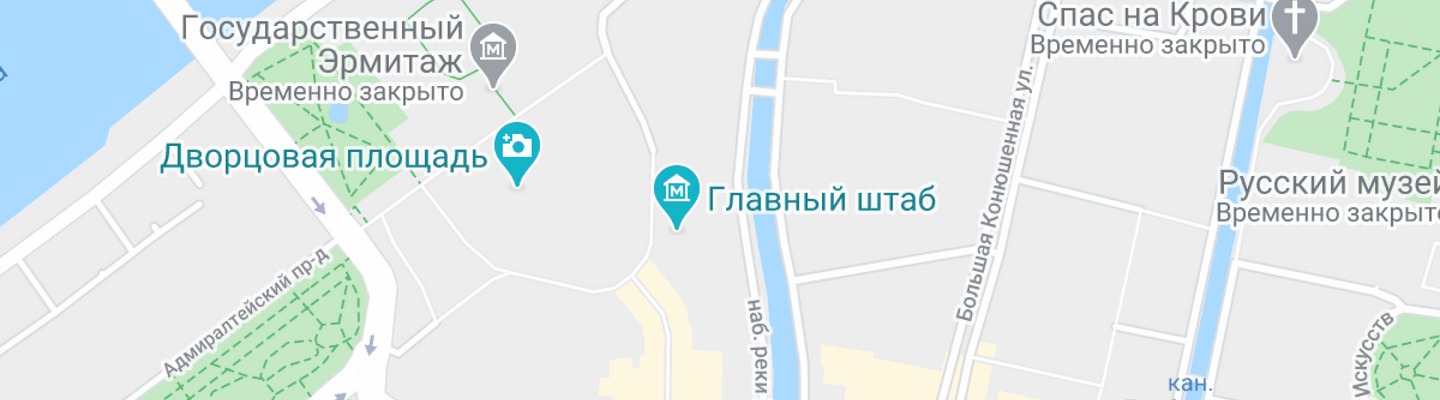
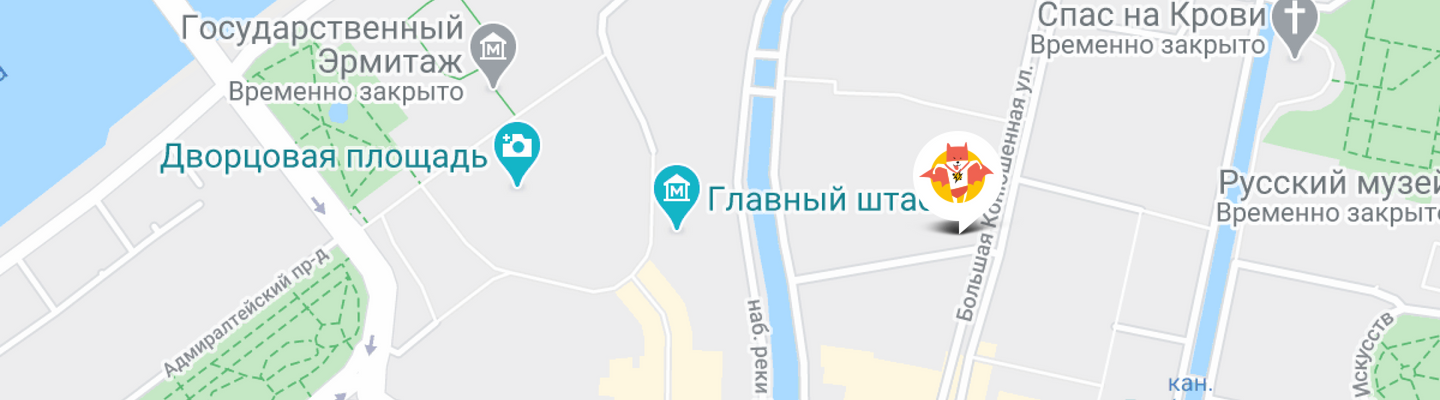
Deploying to gh-pages from @ tavimo/2371083-cat-energy-31@746d1fd5fab75439a8b4c9e2a0bec1154dd610bd 🚀

Changed region(s): [[0.625, 0.36, 0.7188, 0.51], [0.625, 0.54, 0.6875, 0.6]]

diff --git a/5/index.html b/5/index.html
@@ -1,1 +1,1 @@
-<!DOCTYPE html><html class="page" lang="ru"><head><meta charset="UTF-8"><title>Функциональное питание для котов Cat Energy</title><meta name="viewport" content="width=device-width,initial-scale=1"><link rel="stylesheet" href="styles/styles.css"><link rel="icon" href="favicon.ico"><link rel="icon" href="favicons/16.png" type="image/png"><link rel="icon" href="favicons/32.png" type="image/png"><link rel="icon" href="favicons/152.png" type="image/png"><link rel="manifest" href="manifest.webmanifest"><script src="scripts/index.js" defer="defer"></script></head><body class="page__body"><header class="main-header"><div class="main-header__container container"><a class="main-header__logo" href="#" aria-current="page"><picture><source media="(min-width: 1300px)" width="70" height="59" type="image/svg+xml" srcset="images/logo-desktop.svg"><source media="(min-width: 768px)" width="60" height="50" type="image/svg+xml" srcset="images/logo-tablet.svg"><img src="images/logo-mobile.svg" width="33" height="38" alt="логотип Cat Energy"></picture></a><a class="main-header__logo" href="#" aria-current="page"><img src="images/logo-text.svg" width="101" height="18" alt="текстовый логотип Cat Energy"></a><nav class="main-header__navigation navigation"><button class="navigation__toggle" type="button"><span class="visually-hidden">Открыть меню навигации</span></button><div class="navigation__container"><ul class="navigation__list"><li class="navigation__item"><a class="navigation__link" href="#">Главная</a></li><li class="navigation__item"><a class="navigation__link" href="catalog.html">Каталог продукции</a></li><li class="navigation__item"><a class="navigation__link" href="#">Подбор программы</a></li></ul></div></nav></div></header><main class="main-container"><section class="hero"><div class="container"><h1 class="hero__title">Функциональное питание для котов</h1><p class="hero__text">Занялся собой? Займись котом!</p><a class="button" href="#">Подобрать программу</a><picture><source media="(min-width: 1300px)" width="552" height="499" type="image/png" srcset="images/hero-box-desktop@1x.png, images/hero-box-desktop@2x.png 2x"><source media="(min-width: 768px)" width="709" height="609" type="image/png" srcset="images/hero-box-tablet@1x.png, images/hero-box-tablet@2x.png 2x"><img src="images/hero-box-mobile@1x.png" srcset="images/hero-box-mobile@2x.png 2x" width="280" height="270" alt="Банка Cat Energy со вкусом курицы"></picture></div></section><section class="programs"><h2 class="visually-hidden">Программы питания</h2><div class="container"><ul class="programs__list"><li class="programs__item"><article class="programs-card programs-card--slim"><h3 class="programs-card__title">Похудение</h3><p class="programs-card__description">Ваш кот весит больше собаки и почти утратил способность лазить по деревьям? Пора на диету! Cat Energy Slim поможет вашему питомцу сбросить лишний вес.</p><a class="programs-card__link" href="#">Каталог Slim</a></article></li><li class="programs__item"><article class="programs-card programs-card--pro"><h3 class="programs-card__title">Набор массы</h3><p class="programs-card__description">Заработать авторитет среди дворовых котов и даже собак? Серия Cat Energy Pro поможет вашему коту нарастить необходимые мышцы!</p><a class="programs-card__link" href="#">Каталог Pro</a></article></li></ul></div></section><section class="advantages"><div class="container"><h2 class="advantages__title">Как это работает</h2><ul class="advantages__list"><li class="advantages__item advantages__item--leaf"><p class="advantages__description">Функциональное питание содержит только полезные питательные вещества.</p></li><li class="advantages__item advantages__item--water"><p class="advantages__description">Выпускается в виде порошка, который нужно лишь залить кипятком и готово.</p></li><li class="advantages__item advantages__item--food"><p class="advantages__description">Замените один-два приема обычной еды на наше функциональное питание.</p></li><li class="advantages__item advantages__item--watch"><p class="advantages__description">Уже через месяц наслаждайтесь изменениями к лучшему вашего питомца!</p></li></ul></div></section><section class="example"><div class="container"><h2 class="example__title">Живой пример</h2><p class="example__description">Борис сбросил 5 кг за 2 месяца, просто заменив свой обычный корм на Cat Energy Slim. Отличный результат без изнуряющих тренировок! При этом он не менял своих привычек и по-прежнему спит по 16 часов в день.</p><dl class="example__list"><div class="example__item"><dt class="example__term">Снижение веса</dt><dd class="example__definition">5 кг</dd></div><div class="example__item"><dt class="example__term">Затрачено времени</dt><dd class="example__definition">60 дней</dd></div></dl><p class="example__cost">Затраты на питание: <span>15 000 руб.</span></p><div class="example__comparison slider"><div class="slider__container"><div class="slider__img slider__img--after"><picture><source media="(min-width: 768px)" width="560" height="512" type="image/png" srcset="images/slider-after-tablet@1x.png, images/slider-after-tablet@2x.png 2x"><img src="images/slider-after-mobile@1x.png" srcset="images/slider-after-mobile@2x.png 2x" width="280" height="256" alt="стройный кот после употребления корма Cat Energy Slim"></picture></div><div class="slider__img-wrapper"><div class="slider__img slider__img--before"><picture><source media="(min-width: 768px)" width="560" height="512" type="image/png" srcset="images/slider-before-tablet@1x.png, images/slider-before-tablet@2x.png 2x"><img src="images/slider-before-mobile@1x.png" srcset="images/slider-before-mobile@2x.png 2x" width="280" height="256" alt="толстый кот до употребления корма Cat Energy Slim"></picture></div></div><div class="slider__change-wrapper"><button class="slider__change" type="button"><span class="visually-hidden">Ползунок слайдера</span></button></div></div></div></div></section><section class="map"><div class="container"><div class="map__description-container"><h2 class="visually-hidden">Местонахождение на карте</h2><p class="map__description">Приглашаем к сотрудничеству дилеров!</p><address class="map__address">ул. Большая Конюшенная, д. 19/8</address><span class="map__address">Санкт-Петербург</span></div><div class="map__location"></div></div></section></main><footer class="footer"><div class="container"><a class="footer__logo" href="#" aria-current="page"><img src="images/logo-text.svg" width="101" height="18" alt="текстовый логотип Cat Energy"></a><div class="footer__social-wrapper"><h2 class="visually-hidden">Социальные сети</h2><ul class="footer__social-list social-list"><li class="social-list__item"><a class="social-list__link" href="https://vk.com/htmlacademy" target="_blank" rel="noreferrer noopener"><span class="visually-hidden">Мы во Вконтакте.</span></a></li><li class="social-list__item"><a class="social-list__link" href="https://www.youtube.com/user/htmlacademyru" target="_blank" rel="noreferrer noopener"><span class="visually-hidden">Мы на Youtube.</span></a></li><li class="social-list__item"><a class="social-list__link" href="tg://resolve?domain=htmlacademy" target="_blank" rel="noreferrer noopener"><span class="visually-hidden">Мы в Telegram.</span></a></li></ul></div><a class="footer__copyright-link" href="https://htmlacademy.ru" target="_blank" rel="noreferrer noopener"><span class="footer__copyright-name">HTML Academy:</span> <img src="images/logo-html.svg" width="27" height="34" alt="логотип HTML Academy"></a></div></footer></body></html>
+<!DOCTYPE html><html class="page" lang="ru"><head><meta charset="UTF-8"><title>Функциональное питание для котов Cat Energy</title><meta name="viewport" content="width=device-width,initial-scale=1"><link rel="stylesheet" href="styles/styles.css"><link rel="icon" href="favicon.ico"><link rel="icon" href="favicons/16.png" type="image/png"><link rel="icon" href="favicons/32.png" type="image/png"><link rel="icon" href="favicons/152.png" type="image/png"><link rel="manifest" href="manifest.webmanifest"><script src="scripts/index.js" defer="defer"></script></head><body class="page__body"><header class="main-header"><div class="main-header__container container"><a class="main-header__logo" href="#" aria-current="page"><picture><source media="(min-width: 1300px)" width="70" height="59" type="image/svg+xml" srcset="images/logo-desktop.svg"><source media="(min-width: 768px)" width="60" height="50" type="image/svg+xml" srcset="images/logo-tablet.svg"><img src="images/logo-mobile.svg" width="33" height="38" alt="логотип Cat Energy"></picture></a><a class="main-header__logo" href="#" aria-current="page"><img src="images/logo-text.svg" width="101" height="18" alt="текстовый логотип Cat Energy"></a><nav class="main-header__navigation navigation"><button class="navigation__toggle" type="button"><span class="visually-hidden">Открыть меню навигации</span></button><div class="navigation__container"><ul class="navigation__list"><li class="navigation__item"><a class="navigation__link" href="#">Главная</a></li><li class="navigation__item"><a class="navigation__link" href="catalog.html">Каталог продукции</a></li><li class="navigation__item"><a class="navigation__link" href="#">Подбор программы</a></li></ul></div></nav></div></header><main class="main-container"><section class="hero"><div class="container"><h1 class="hero__title">Функциональное питание для котов</h1><p class="hero__text">Занялся собой? Займись котом!</p><a class="button" href="#">Подобрать программу</a><picture><source media="(min-width: 1300px)" width="552" height="499" type="image/png" srcset="images/hero-box-desktop@1x.png, images/hero-box-desktop@2x.png 2x"><source media="(min-width: 768px)" width="709" height="609" type="image/png" srcset="images/hero-box-tablet@1x.png, images/hero-box-tablet@2x.png 2x"><img src="images/hero-box-mobile@1x.png" srcset="images/hero-box-mobile@2x.png 2x" width="280" height="270" alt="Банка Cat Energy со вкусом курицы"></picture></div></section><section class="programs"><h2 class="visually-hidden">Программы питания</h2><div class="container"><ul class="programs__list"><li class="programs__item"><article class="programs-card programs-card--slim"><h3 class="programs-card__title">Похудение</h3><p class="programs-card__description">Ваш кот весит больше собаки и почти утратил способность лазить по деревьям? Пора на диету! Cat Energy Slim поможет вашему питомцу сбросить лишний вес.</p><a class="programs-card__link" href="#">Каталог Slim</a></article></li><li class="programs__item"><article class="programs-card programs-card--pro"><h3 class="programs-card__title">Набор массы</h3><p class="programs-card__description">Заработать авторитет среди дворовых котов и даже собак? Серия Cat Energy Pro поможет вашему коту нарастить необходимые мышцы!</p><a class="programs-card__link" href="#">Каталог Pro</a></article></li></ul></div></section><section class="advantages"><div class="container"><h2 class="advantages__title">Как это работает</h2><ul class="advantages__list"><li class="advantages__item advantages__item--leaf"><p class="advantages__description">Функциональное питание содержит только полезные питательные вещества.</p></li><li class="advantages__item advantages__item--water"><p class="advantages__description">Выпускается в виде порошка, который нужно лишь залить кипятком и готово.</p></li><li class="advantages__item advantages__item--food"><p class="advantages__description">Замените один-два приема обычной еды на наше функциональное питание.</p></li><li class="advantages__item advantages__item--watch"><p class="advantages__description">Уже через месяц наслаждайтесь изменениями к лучшему вашего питомца!</p></li></ul></div></section><section class="example"><div class="container"><h2 class="example__title">Живой пример</h2><p class="example__description">Борис сбросил 5 кг за 2 месяца, просто заменив свой обычный корм на Cat Energy Slim. Отличный результат без изнуряющих тренировок! При этом он не менял своих привычек и по-прежнему спит по 16 часов в день.</p><dl class="example__list"><div class="example__item"><dt class="example__term">Снижение веса</dt><dd class="example__definition">5 кг</dd></div><div class="example__item"><dt class="example__term">Затрачено времени</dt><dd class="example__definition">60 дней</dd></div></dl><p class="example__cost">Затраты на питание: <span>15 000 руб.</span></p><div class="example__comparison slider"><div class="slider__container"><div class="slider__img slider__img--after"><picture><source media="(min-width: 768px)" width="560" height="512" type="image/png" srcset="images/slider-after-tablet@1x.png, images/slider-after-tablet@2x.png 2x"><img src="images/slider-after-mobile@1x.png" srcset="images/slider-after-mobile@2x.png 2x" width="280" height="256" alt="стройный кот после употребления корма Cat Energy Slim"></picture></div><div class="slider__img-wrapper"><div class="slider__img slider__img--before"><picture><source media="(min-width: 768px)" width="560" height="512" type="image/png" srcset="images/slider-before-tablet@1x.png, images/slider-before-tablet@2x.png 2x"><img src="images/slider-before-mobile@1x.png" srcset="images/slider-before-mobile@2x.png 2x" width="280" height="256" alt="толстый кот до употребления корма Cat Energy Slim"></picture></div></div><div class="slider__change-wrapper"><button class="slider__change" type="button"><span class="visually-hidden">Ползунок слайдера</span></button></div></div></div></div></section><section class="map"><div class="container"><div class="map__description-container"><h2 class="visually-hidden">Контакты</h2><p class="map__description">Приглашаем к сотрудничеству дилеров!</p><address class="map__address">ул. Большая Конюшенная, д. 19/8</address><span class="map__address">Санкт-Петербург</span></div></div><div class="map__location"><picture><source media="(min-width: 1300px)" width="1440" height="400" type="image/png" srcset="images/map-desktop@1x.png, images/map-desktop@2x.png 2x"><source media="(min-width: 768px)" width="768" height="400" type="image/png" srcset="images/map-tablet@1x.png, images/map-tablet@2x.png 2x"><img class="map__location-img" src="images/map-mobile@1x.png" srcset="images/map-mobile@2x.png 2x" width="320" height="362" alt="Местонахождение на карте"></picture><iframe class="map__location-iframe" src="https://www.google.com/maps/embed?pb=!1m18!1m12!1m3!1d1998.6094560304048!2d30.323465821758433!3d59.93862242360575!2m3!1f0!2f0!3f0!3m2!1i1024!2i768!4f13.1!3m3!1m2!1s0x4696310fca145cc1%3A0x42b32648d8238007!2z0JHQvtC70YzRiNCw0Y8g0JrQvtC90Y7RiNC10L3QvdCw0Y8g0YPQuy4sIDE5LzgsINCh0LDQvdC60YIt0J_QtdGC0LXRgNCx0YPRgNCzLCAxOTExODY!5e0!3m2!1sru!2sru!4v1714467114008!5m2!1sru!2sru" width="600" height="450" style="border:0;" allowfullscreen="" loading="lazy" referrerpolicy="no-referrer-when-downgrade"></iframe></div></section></main><footer class="footer"><div class="container"><a class="footer__logo" href="#" aria-current="page"><img src="images/logo-text.svg" width="101" height="18" alt="текстовый логотип Cat Energy"></a><div class="footer__social-wrapper"><h2 class="visually-hidden">Социальные сети</h2><ul class="footer__social-list social-list"><li class="social-list__item"><a class="social-list__link" href="https://vk.com/htmlacademy" target="_blank" rel="noreferrer noopener"><span class="visually-hidden">Мы во Вконтакте.</span></a></li><li class="social-list__item"><a class="social-list__link" href="https://www.youtube.com/user/htmlacademyru" target="_blank" rel="noreferrer noopener"><span class="visually-hidden">Мы на Youtube.</span></a></li><li class="social-list__item"><a class="social-list__link" href="tg://resolve?domain=htmlacademy" target="_blank" rel="noreferrer noopener"><span class="visually-hidden">Мы в Telegram.</span></a></li></ul></div><a class="footer__copyright-link" href="https://htmlacademy.ru" target="_blank" rel="noreferrer noopener"><span class="footer__copyright-name">HTML Academy:</span> <img src="images/logo-html.svg" width="27" height="34" alt="логотип HTML Academy"></a></div></footer></body></html>

diff --git a/5/styles/styles.css b/5/styles/styles.css
@@ -1,1 +1,1 @@
-@font-face{font-family:Lato;font-weight:400;font-style:normal;src:url(../fonts/lato/Lato-Regular.woff2)format("woff2");font-display:swap}@font-face{font-family:Oswald;font-weight:400;font-style:normal;src:url(../fonts/oswald/oswaldregular.woff2)format("woff2");font-display:swap}*,:before,:after{box-sizing:border-box}html{height:100%}body{color:#444;margin:0;padding:0;font-family:Lato,sans-serif;font-size:14px;line-height:18px}.visually-hidden{clip:rect(0 0 0 0);border:0;width:1px;height:1px;margin:-1px;padding:0;position:absolute;overflow:hidden}.page{margin:0;padding:0}.button{text-transform:uppercase;color:#fff;text-align:center;background-color:#68b738;border:none;width:100%;padding:10px 0;font-family:Oswald,sans-serif;font-size:16px;line-height:20px;text-decoration:none;display:inline-block}.button--light{color:#444;background-color:#f2f2f2}.container{width:280px;min-height:100%;margin:0 auto}@media (width>=768px){.container{width:708px}}@media (width>=1300px){.container{width:1220px}}.main-header{padding:0}.navigation__list{text-transform:uppercase;margin:0;padding:0;font-family:Oswald,sans-serif;font-size:20px;line-height:20px;list-style-type:none}.navigation__link{color:#000;text-decoration:none}.main-container{padding:0}.hero{background-image:url(../images/hero-background-mobile@1x.jpg),linear-gradient(#63a63b 302px,#0000 302px);background-position:50% 0;background-repeat:no-repeat;background-size:auto,cover;min-height:302px}@media (width>=768px){.hero{background-image:none}}@media (width>=1300px){.hero{background-image:url(../images/hero-background-desktop@1x.jpg);background-position:100%}}.hero__title{color:#fff;font-family:Oswald,sans-serif;font-size:36px;font-weight:400;line-height:36px}@media (width>=768px){.hero__title{color:#000;font-size:60px;line-height:60px}}.hero__text{text-transform:uppercase;color:#fff;font-family:Oswald,sans-serif;line-height:18px}@media (width>=1300px){.hero__text{color:#000;font-size:20px;line-height:20px}}.programs__list{margin:0;padding:0;list-style-type:none}.programs-card{background-color:#f2f2f2}.programs-card__title{text-transform:uppercase;color:#000;font-family:Oswald,sans-serif;font-size:24px;font-weight:400;line-height:37px}.programs-card__description{color:#444}.programs-card__link{color:#000;text-transform:uppercase;font-family:Oswald,sans-serif;font-size:16px;line-height:16px;text-decoration:none}.advantages__title{color:#000;font-family:Oswald,sans-serif;font-size:36px;font-weight:400;line-height:40px}.advantages__list{margin:0;padding:0;list-style-type:none}.example{background-color:#f2f2f2}.example__title{color:#000;font-family:Oswald,sans-serif;font-size:36px;font-weight:400;line-height:40px}.example__list{justify-content:space-between;width:280px;margin:0;padding:0;list-style-type:none;display:flex}@media (width>=768px){.example__list{width:366px}}.example__item{text-align:center;border:1px solid #cdcdcd;border-radius:3px;width:124px;min-height:56px;position:relative}@media (width>=768px){.example__item{width:162px}}.example__term{text-transform:lowercase;width:87px;padding:0 14px;font-size:12px;line-height:12px;display:block;position:absolute;bottom:-14px;left:18px}@media (width>=768px){.example__term{width:142px;padding:0 8px;font-size:14px;line-height:14px;bottom:-5px;left:10px}}.example__definition{color:#000;text-transform:uppercase;margin:0 auto;padding:14px 14px 18px;font-family:Oswald,sans-serif;font-size:24px;line-height:24px;display:block}.example__cost{color:#000;text-transform:uppercase;font-family:Oswald,sans-serif;font-size:14px;line-height:20px}.slider{max-width:280px}@media (width>=768px){.slider{max-width:560px}}.slider__container{position:relative}.slider__img-wrapper{width:50%;height:256px;position:absolute;top:0;left:0;overflow:hidden}@media (width>=768px){.slider__img-wrapper{height:512px}}.slider__change-wrapper{width:40px;height:40px;position:absolute;top:50%;left:50%;transform:translate(-50%,-50%)}.slider__change-wrapper:before{content:"";z-index:-1;background-color:#666;border-radius:2px;width:4px;height:256px;position:absolute;top:50%;left:50%;transform:translate(-50%,-50%)}@media (width>=768px){.slider__change-wrapper:before{height:512px}}.slider__change{border:2px solid #666;border-radius:50%;width:40px;height:40px}.catalog__title{color:#000;font-family:Oswald,sans-serif;font-size:36px;font-weight:400;line-height:36px}.catalog__list{margin:0;padding:0;list-style-type:none}.product-card__title-link{text-decoration:none}.product-card__title{text-transform:uppercase;color:#222;font-family:Oswald,sans-serif;font-size:16px;font-weight:400;line-height:20px}.properties__list{margin:0;padding:0;list-style-type:none}.properties__term,.properties__definition{font-size:12px;line-height:16px}.sub-catalog__title{text-transform:uppercase;color:#000;font-family:Oswald,sans-serif;font-size:24px;font-weight:400;line-height:24px}.sub-catalog__list{margin:0;padding:0;list-style:none}.sub-catalog__bonus{background-color:#68b738;background-image:url(../images/bonus-mobile@1x.png);background-repeat:no-repeat;background-size:cover;min-height:290px}.sub-catalog__bonus-description{color:#fff;font-size:16px;line-height:20px}.sub-card__product-title{color:#222;text-transform:uppercase;font-family:Oswald,sans-serif;font-size:16px;font-weight:400;line-height:16px}.sub-card__product-tare{font-size:14px;line-height:14px}.promotions__title{color:#000;font-family:Oswald,sans-serif;font-size:24px;line-height:24px}.promotions__description{color:#000;font-family:Oswald,sans-serif;font-size:16px;line-height:24px}.promotions__input::placeholder{font-family:Oswald,sans-serif;font-size:20px;line-height:auto;color:#444}.map__description{color:#000;text-transform:uppercase;font-family:Oswald,sans-serif;font-size:16px;line-height:20px}.map__address{font-style:inherit;font-size:14px;line-height:20px}.footer{background-color:#f2f2f2}.footer__copyright-link{color:#000;text-decoration:none}.footer__copyright-name{color:#444;font-size:16px;line-height:20px}.social-list{margin:0;padding:0;list-style-type:none}
+@font-face{font-family:Lato;font-weight:400;font-style:normal;src:url(../fonts/lato/Lato-Regular.woff2)format("woff2");font-display:swap}@font-face{font-family:Oswald;font-weight:400;font-style:normal;src:url(../fonts/oswald/oswaldregular.woff2)format("woff2");font-display:swap}*,:before,:after{box-sizing:border-box}html{height:100%}body{color:#444;margin:0;padding:0;font-family:Lato,sans-serif;font-size:14px;line-height:18px}.visually-hidden{clip:rect(0 0 0 0);border:0;width:1px;height:1px;margin:-1px;padding:0;position:absolute;overflow:hidden}.page{margin:0;padding:0}.button{text-transform:uppercase;color:#fff;text-align:center;background-color:#68b738;border:none;width:100%;padding:10px 0;font-family:Oswald,sans-serif;font-size:16px;line-height:20px;text-decoration:none;display:inline-block}.button--light{color:#444;background-color:#f2f2f2}.container{width:280px;min-height:100%;margin:0 auto}@media (width>=768px){.container{width:708px}}@media (width>=1300px){.container{width:1220px}}.main-header{padding:0}.navigation__list{text-transform:uppercase;margin:0;padding:0;font-family:Oswald,sans-serif;font-size:20px;line-height:20px;list-style-type:none}.navigation__link{color:#000;text-decoration:none}.main-container{padding:0}.hero{background-image:url(../images/hero-background-mobile@1x.jpg),linear-gradient(#63a63b 302px,#0000 302px);background-position:50% 0;background-repeat:no-repeat;background-size:auto,cover;min-height:302px}@media (width>=768px){.hero{background-image:none}}@media (width>=1300px){.hero{background-image:url(../images/hero-background-desktop@1x.jpg);background-position:100%}}.hero__title{color:#fff;font-family:Oswald,sans-serif;font-size:36px;font-weight:400;line-height:36px}@media (width>=768px){.hero__title{color:#000;font-size:60px;line-height:60px}}.hero__text{text-transform:uppercase;color:#fff;font-family:Oswald,sans-serif;line-height:18px}@media (width>=1300px){.hero__text{color:#000;font-size:20px;line-height:20px}}.programs__list{margin:0;padding:0;list-style-type:none}.programs-card{background-color:#f2f2f2}.programs-card__title{text-transform:uppercase;color:#000;font-family:Oswald,sans-serif;font-size:24px;font-weight:400;line-height:37px}.programs-card__description{color:#444}.programs-card__link{color:#000;text-transform:uppercase;font-family:Oswald,sans-serif;font-size:16px;line-height:16px;text-decoration:none}.advantages__title{color:#000;font-family:Oswald,sans-serif;font-size:36px;font-weight:400;line-height:40px}.advantages__list{margin:0;padding:0;list-style-type:none}.example{background-color:#f2f2f2}.example__title{color:#000;font-family:Oswald,sans-serif;font-size:36px;font-weight:400;line-height:40px}.example__list{justify-content:space-between;width:280px;margin:0;padding:0;list-style-type:none;display:flex}@media (width>=768px){.example__list{width:366px}}.example__item{text-align:center;border:1px solid #cdcdcd;border-radius:3px;width:124px;min-height:56px;position:relative}@media (width>=768px){.example__item{width:162px}}.example__term{text-transform:lowercase;width:87px;padding:0 14px;font-size:12px;line-height:12px;display:block;position:absolute;bottom:-14px;left:18px}@media (width>=768px){.example__term{width:142px;padding:0 8px;font-size:14px;line-height:14px;bottom:-5px;left:10px}}.example__definition{color:#000;text-transform:uppercase;margin:0 auto;padding:14px 14px 18px;font-family:Oswald,sans-serif;font-size:24px;line-height:24px;display:block}.example__cost{color:#000;text-transform:uppercase;font-family:Oswald,sans-serif;font-size:14px;line-height:20px}.slider{max-width:280px}@media (width>=768px){.slider{max-width:560px}}.slider__container{position:relative}.slider__img-wrapper{width:50%;height:256px;position:absolute;top:0;left:0;overflow:hidden}@media (width>=768px){.slider__img-wrapper{height:512px}}.slider__change-wrapper{width:40px;height:40px;position:absolute;top:50%;left:50%;transform:translate(-50%,-50%)}.slider__change-wrapper:before{content:"";z-index:-1;background-color:#666;border-radius:2px;width:4px;height:256px;position:absolute;top:50%;left:50%;transform:translate(-50%,-50%)}@media (width>=768px){.slider__change-wrapper:before{height:512px}}.slider__change{border:2px solid #666;border-radius:50%;width:40px;height:40px}.catalog__title{color:#000;font-family:Oswald,sans-serif;font-size:36px;font-weight:400;line-height:36px}.catalog__list{margin:0;padding:0;list-style-type:none}.product-card__title-link{text-decoration:none}.product-card__title{text-transform:uppercase;color:#222;font-family:Oswald,sans-serif;font-size:16px;font-weight:400;line-height:20px}.properties__list{margin:0;padding:0;list-style-type:none}.properties__term,.properties__definition{font-size:12px;line-height:16px}.sub-catalog__title{text-transform:uppercase;color:#000;font-family:Oswald,sans-serif;font-size:24px;font-weight:400;line-height:24px}.sub-catalog__list{margin:0;padding:0;list-style:none}.sub-catalog__bonus{background-color:#68b738;background-image:url(../images/bonus-mobile@1x.png);background-repeat:no-repeat;background-size:cover;min-height:290px}.sub-catalog__bonus-description{color:#fff;font-size:16px;line-height:20px}.sub-card__product-title{color:#222;text-transform:uppercase;font-family:Oswald,sans-serif;font-size:16px;font-weight:400;line-height:16px}.sub-card__product-tare{font-size:14px;line-height:14px}.promotions__title{color:#000;font-family:Oswald,sans-serif;font-size:24px;line-height:24px}.promotions__description{color:#000;font-family:Oswald,sans-serif;font-size:16px;line-height:24px}.promotions__input::placeholder{font-family:Oswald,sans-serif;font-size:20px;line-height:auto;color:#444}.map__description{color:#000;text-transform:uppercase;font-family:Oswald,sans-serif;font-size:16px;line-height:20px}.map__address{font-style:inherit;font-size:14px;line-height:20px}.map__location{width:100%;min-height:362px}@media (width>=768px){.map__location{min-height:400px}}@media (width>=1300px){.map__location{min-height:400px}}.map__location-img{display:block;position:absolute;left:50%;transform:translate(-50%)}.map__location-iframe{border:none;width:100%;display:block;position:relative}@media (width>=768px){.map__location-iframe{height:400px}}@media (width>=1300px){.map__location-iframe{height:400px}}.footer{background-color:#f2f2f2}.footer__copyright-link{color:#000;text-decoration:none}.footer__copyright-name{color:#444;font-size:16px;line-height:20px}.social-list{margin:0;padding:0;list-style-type:none}
